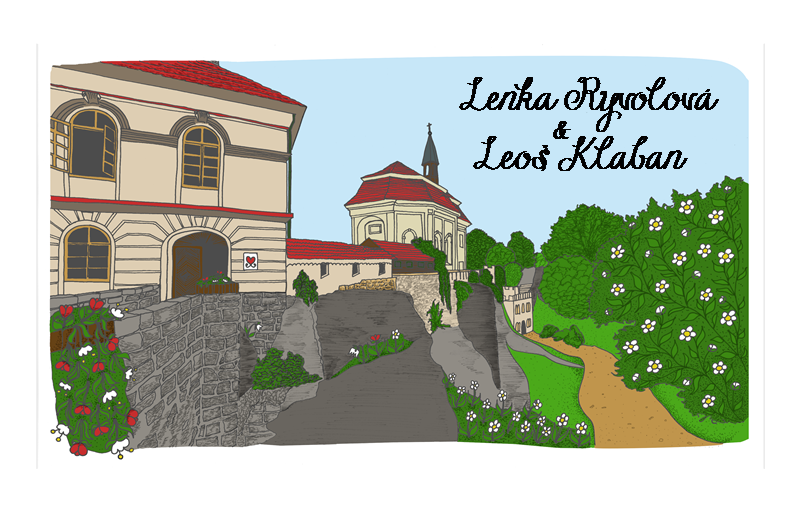
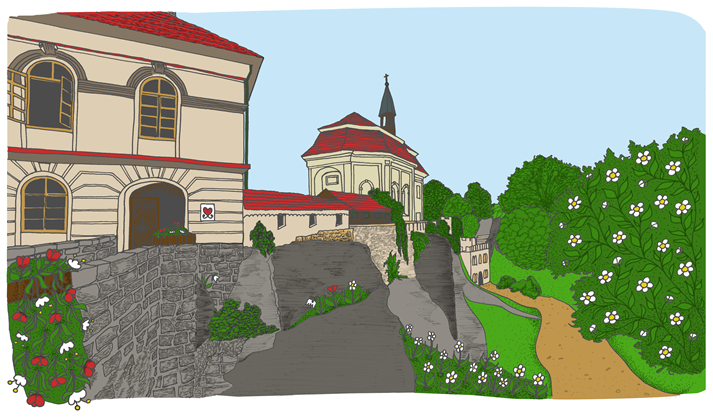
Uvod & oznameni

diff --git a/src/scss/sections/_uvod.scss b/src/scss/sections/_uvod.scss
@@ -1,0 +1,24 @@
+#uvod {
+    position: relative;
+    width: 100%;
+    height: auto;
+    min-height: 50rem;
+    padding-top: 5rem;
+    background: url("../assets/img/1-uvod.png");
+    background-position: center;
+    background-repeat: no-repeat;
+    background-attachment: scroll;
+    background-size: cover;
+    h1 {
+        font-size: 2.5rem;
+        line-height: 2.5rem;
+        letter-spacing: 0.4rem;
+    }
+    @include media-breakpoint-up(md) {
+        h1 {
+	    margin-left: 1em;
+            font-size: 3.5rem;
+            line-height: 4rem;
+        }
+    }
+}

diff --git a/src/scss/variables/_typography.scss b/src/scss/variables/_typography.scss
@@ -1,13 +1,5 @@
-// Override Bootstrap typography variables
-
 $font-family-base: "Dancing Script", -apple-system, BlinkMacSystemFont, "Segoe UI",
     Roboto, "Helvetica Neue", Arial, sans-serif, "Apple Color Emoji",
     "Segoe UI Emoji", "Segoe UI Symbol", "Noto Color Emoji";
 
 $base-letter-spacing: 0.0625em;
-
-// Custom font family for masthead H1
-
-$font-family-special: "Dancing Script", -apple-system, BlinkMacSystemFont,
-    "Segoe UI", Roboto, "Helvetica Neue", Arial, sans-serif, "Apple Color Emoji",
-    "Segoe UI Emoji", "Segoe UI Symbol", "Noto Color Emoji";

diff --git a/src/scss/styles.scss b/src/scss/styles.scss
@@ -12,9 +12,9 @@
 @import "./components/buttons.scss";
 
 // Sections
-@import "./sections/masthead.scss";
-@import "./sections/about.scss";
-@import "./sections/projects.scss";
-@import "./sections/signup.scss";
-@import "./sections/contact.scss";
+@import "./sections/uvod.scss";
+@import "./sections/oznameni.scss";
+@import "./sections/program.scss";
+@import "./sections/prosba.scss";
+@import "./sections/kontakty.scss";
 @import "./sections/footer.scss";

diff --git a/src/scss/components/_navbar.scss b/src/scss/components/_navbar.scss
@@ -37,12 +37,12 @@
         transition: background-color 0.3s ease-in-out;
         .navbar-brand {
             padding: 0.5rem 0;
-            color: fade-out($white, 0.5);
+            color: $black;
         }
         .nav-link {
             transition: none;
             padding: 2rem 1.5rem;
-            color: fade-out($white, 0.5);
+            color: $black;
             &:hover {
                 color: fade-out($white, 0.25);
             }

diff --git a/src/scss/components/_buttons.scss b/src/scss/components/_buttons.scss
@@ -3,7 +3,6 @@
 .btn {
     box-shadow: 0 0.1875rem 0.1875rem 0 rgba(0, 0, 0, 0.1) !important;
     padding: 1.25rem 2rem;
-    font-family: $font-family-special;
     font-size: 80%;
     text-transform: uppercase;
     letter-spacing: 0.15rem;

diff --git a/src/scss/sections/_program.scss b/src/scss/sections/_program.scss
@@ -1,0 +1,9 @@
+#program {
+    padding: 10rem 0;
+    .featured-text {
+        padding: 2rem;
+        @include media-breakpoint-up(lg) {
+            padding: 0 0 0 2rem;
+        }
+    }
+}

diff --git a/src/scss/sections/_prosba.scss b/src/scss/sections/_prosba.scss
@@ -1,0 +1,9 @@
+#prosba {
+    padding: 10rem 0;
+    .featured-text {
+        padding: 2rem;
+        @include media-breakpoint-up(lg) {
+            padding: 0 0 0 2rem;
+        }
+    }
+}

diff --git a/src/scss/sections/_oznameni.scss b/src/scss/sections/_oznameni.scss
@@ -1,0 +1,6 @@
+#oznameni {
+    padding-top: 5rem;
+    p {
+	    font-size: 2rem;
+    }
+}

diff --git a/src/scss/sections/_kontakty.scss b/src/scss/sections/_kontakty.scss
@@ -1,0 +1,3 @@
+#kontakty {
+    padding-top: 5rem;
+}
